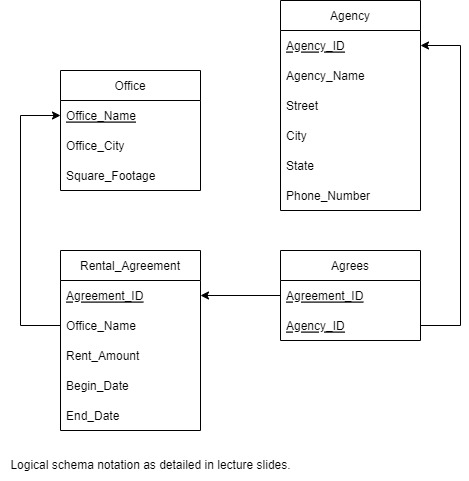
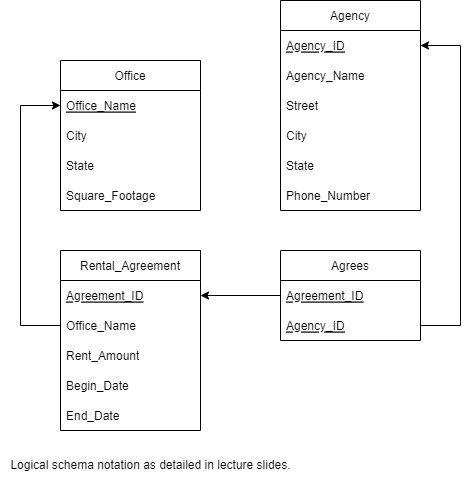
update python script to fix errors with new schema, fixed schema diagram, updated SQL code

Changed region(s): [[0.0299, 0.1247, 0.4179, 0.4366]]

diff --git a/SOAP.py b/SOAP.py
@@ -21,17 +21,23 @@ from datetime import datetime
 # Return:           None
 def menu_for_tables():
     print("Choose from the tables below:\n")
-    print("A) Agency\n")
-    print("B) Office\n")
-    print("C) Rental Agreement\n")
-    user_choice = input("Choice: ")
-    if user_choice.upper() == "A":
-        return "Agency"
-    elif user_choice.upper() == "B":
-        return "Office"
-    elif user_choice.upper() == "C":
-        return "Rental Agreement"
-
+    print("A) Agency")
+    print("B) Office")
+    print("C) Rental Agreement")
+    print("D) Agrees")
+    while(True):
+        user_choice = input("Choice: ")
+        if user_choice.upper() == "A":
+            return "Agency"
+        elif user_choice.upper() == "B":
+            return "Office"
+        elif user_choice.upper() == "C":
+            return "Rental_Agreement"
+        elif user_choice.upper() == "D":
+            return "Agrees"
+        else:
+            print("Invalid selection, please enter A, B, C, or D.")
+        
 # convert_to_date(dt_str) converts a string to a date
 # Parameters: dt_str:     a date stored as a string
 # Return:                 a date formatted as a date
@@ -46,39 +52,47 @@ def convert_to_date(dt_str):
 def Insert(table,cursor):
     print(table)
     if table == "Agency":
-         Agency_ID   = int(input("Enter the Agency Id: "))
-         Office_Name = input("Enter the Office name: ")
-         Agency_Name = input("Enter the Agency name: ")
-         Street = input("Enter the street of the address: ") 
-         City = input("Enter the city of the Agency: ")
-         State  = input("Enter the State of the Agency: ")
-         Phone_Number= input("Enter the Phone number of the Agency: ")
+         Agency_ID   = int(input("Enter the agency id: "))
+         Agency_Name = input("Enter the agency name: ")
+         Street = input("Enter the street address of the agency: ") 
+         City = input("Enter the city of the agency: ")
+         State  = input("Enter the State of the agency: ")
+         Phone_Number= input("Enter the Phone number of the agency: ")
          # This is the tuple that is going to be inserted into the table
-         row_to_insert = (Agency_ID, Office_Name, Agency_Name, Street, City, State, Phone_Number)
+         row_to_insert = (Agency_ID, Agency_Name, Street, City, State, Phone_Number)
          try:
-            cursor.execute("insert into Agency values (?,?,?,?,?,?,?)", row_to_insert)
+            cursor.execute("insert into Agency values (?,?,?,?,?,?)", row_to_insert)
          except sqlite3.Error as e:
-            print("error occured: ", e)
+            print("error occurred: ", e)
     if table == "Office":
         Office_Name = input("Enter the name of the office: ")
-        Office_City = input("Enter the city of the office: ")
+        City = input("Enter the city of the office: ")
+        State = input("Enter the state of the office: ")
         Square_Footage = int(input("Enter the square footage of the office: "))
-        row_to_insert = (Office_Name, Office_City, Square_Footage)
+        row_to_insert = (Office_Name, City, State, Square_Footage)
         try:
-            cursor.execute("insert into Office values(?,?,?)",row_to_insert)
+            cursor.execute("insert into Office values(?,?,?,?)", row_to_insert)
         except sqlite3.Error as e:
-            print("error occured: ", e)
+            print("error occurred: ", e)
     if table == "Rental Agreement":
         Agreement_ID = int(input("Enter agreement id: "))
-        Off_name = input("Enter the office name: ")
-        Rent_amount = float(input("Enter rent amount: "))
-        Begin_date = convert_to_date(input("Enter a begin date ? (in YYYY-MM-DD):  "))
-        End_date = convert_to_date(input("Enter an end date ? (in YYYY-MM-DD):  "))
-        row_to_insert = (Agreement_ID, Off_name, Rent_amount, Begin_date, End_date)
+        Office_Name = input("Enter the office name: ")
+        Rent_Amount = float(input("Enter rent amount: "))
+        Begin_Date = convert_to_date(input("Enter a begin date ? (in YYYY-MM-DD):  "))
+        End_Date = convert_to_date(input("Enter an end date ? (in YYYY-MM-DD):  "))
+        row_to_insert = (Agreement_ID, Office_Name, Rent_Amount, Begin_Date, End_Date)
         try:
             cursor.execute("insert into Rental_Agreement values(?,?,?,?,?)", row_to_insert)
         except sqlite3.Error as e:
-            print("error occured: ", e)
+            print("error occurred: ", e)
+    if table == "Agrees":
+        Agreement_ID = int(input("Enter agreement id: "))
+        Agency_ID   = int(input("Enter the agency id: "))
+        row_to_insert = (Agreement_ID, Agency_ID)
+        try:
+            cursor.execute("insert into Agrees values(?,?)", row_to_insert)
+        except sqlite3.Error as e:
+            print("error occurred: ", e)
 
 # Delete(table, cursor) deletes an entry from a table
 # Parameters:           table: the selected table
@@ -98,7 +112,7 @@ def Delete(table,cursor):
         try:
             cursor.execute('delete from Agency where Agency_ID=(?)', [row_to_delete[user_choice - 1]])
         except sqlite3.Error as e:
-             print("error occured: ", e)           
+             print("error occurred: ", e)           
     elif table == "Office":
         user_choice = 1
         row_to_delete = []
@@ -111,7 +125,7 @@ def Delete(table,cursor):
         try:
             cursor.execute('delete from Office where Office_Name =(?)', [row_to_delete[user_choice - 1]])
         except sqlite3.Error as e:
-            print("error occured: ", e)
+            print("error occurred: ", e)
     elif table == "Rental Agreement":
         user_choice = 1
         row_to_delete = []
@@ -124,22 +138,31 @@ def Delete(table,cursor):
         try:
             cursor.execute('delete from Rental_Agreement where Agreement_ID =(?)', [row_to_delete[user_choice - 1]])
         except sqlite3.Error as e:
-            print("error occured: ", e)
+            print("error occurred: ", e)
+    elif table == "Agrees":
+        user_choice = 1
+        row_to_delete = []
+        for item in cursor.execute("select * from Agrees"):
+            print("%d) "%user_choice, end="")
+            print(item)
+            user_choice += 1
+            row_to_delete.append(item[0])
+        user_choice = int(input("Pick a row to delete: "))
+        try:
+            cursor.execute('delete from Agrees where Agreement_ID =(?)', [row_to_delete[user_choice - 1]])
+        except sqlite3.Error as e:
+            print("error occurred: ", e)
 
 # Select(table, cursor) selects an entry from a table
 # Parameters:           table: the selected table
 #                       cursor: object that helps execute query by fetching records from database
 # Return:               None
 def Select(table,cursor):
-    if table == "Agency":
-        for item in cursor.execute("select * from Agency"):
+    try:
+        for item in cursor.execute("select * from " + table):
             print(item)
-    elif table == "Office":
-        for item in cursor.execute("select * from Office"):
-            print(item)
-    elif table == "Rental Agreement":
-        for item in cursor.execute("select * from Rental_Agreement"):
-            print(item)
+    except sqlite3.Error as e:
+        print("error occurred: ", e)
 
 # SQL_statement(statement, cursor) executes a sql statement on the database
 # Parameters:                      statement: the sql statement to be executed
@@ -152,7 +175,7 @@ def SQL_statement(statement,cursor):
         for row in rows:
             print(row)
     except sqlite3.Error as e:
-        print("error occured: ", e)
+        print("error occurred: ", e)
 
 if __name__ == "__main__":
     conn = sqlite3.connect("SOAP.db")
@@ -175,4 +198,7 @@ if __name__ == "__main__":
             statement = input("Enter a SQL statement: ")
             SQL_statement(statement, c)
             conn.commit()
+        else:
+            print("Invalid choice, please select I, S, D, E, or Q.")
+        
     conn.close()
